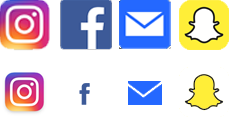
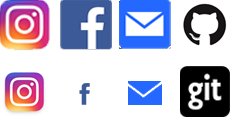
About Me
Completed About Me
Added Git Hub as a social media (instead of snapchat)

Changed region(s): [[0.7609, 0.5, 1.0, 0.9375], [0.7609, 0.0, 1.0, 0.4062]]

diff --git a/index.html b/index.html
@@ -8,6 +8,14 @@ License URL: http://creativecommons.org/licenses/by/3.0/
 <!DOCTYPE html>
 <html>
 <head>
+<style>
+    img.ficon{
+        width:56px;
+        height:60px;
+        display:inline-block;
+        background: url('images/yh.png') no-repeat 5px 4px #f9f9f9;
+    }
+</style>
 <title>Adam Abbas</title>
 <link rel="shortcut icon" href="images/favicon.ico.png" />
 <link href="css/bootstrap.css" rel='stylesheet' type='text/css'/>
@@ -80,16 +88,16 @@ Smartphone Compatible web template, free webdesigns for Nokia, Samsung, LG, Sony
 	  </div>
 </div>
 <div class="social-media">
-	 <a href="https://www.instagram.com/adam_abbaws/"><div class="behance social-grids">
+	 <a href="https://www.instagram.com/adam_abbaws/" target="_blank"  ><div class="behance social-grids">
 		 <i class="bh"></i>
 	 </div></a>
-	 <a href="https://www.facebook.com/adamabbaws"><div class="facebook social-grids">
+	 <a href="https://www.facebook.com/adamabbaws" target="_blank"><div class="facebook social-grids">
 		 <i class="fb"></i>
 	 </div></a>
-	 <a href="mailto:adamabbas26@gmail.com"><div class="pinterest social-grids">
+	 <a href="mailto:adamabbas26@gmail.com" target="_blank"><div class="pinterest social-grids">
 		 <i class="pin"></i>
 	 </div></a>
-	 <a href="images/snapcode.png"><div class="birbble social-grids">
+	 <a href="http://www.github.com/Watabaws" target="_blank"><div class="birbble social-grids">
 		 <i class="brib"></i>
 	 </div></a>
 	 <div class="clearfix"></div>
@@ -98,23 +106,21 @@ Smartphone Compatible web template, free webdesigns for Nokia, Samsung, LG, Sony
 <div id="about" class="about">
 	 <div class="container">
 		 <div class="about-head">
-			 <h3>About OPTION</h3>
-			 <p>Recognizing the need is the primary condition for design.</p>
-			 <h5>Charles Eames</h5>
+			 <h3>About Me</h3>
+			 <p>I am one of those people who just can't help getting a kick out of life - even when it's a kick in the teeth.</p>
+			 <h5>Polly Adler </h5>
 		 </div> 
-		 <div class="about-sec">
+         <br><br>
 			 <div class="col-md-6 about-info">
-				 <p class="about-sec-info"><span>OPTION</span>is originally an option of mine, other ideas that pop up, when creating my design for my personal portfolio. So instead of just keeping it inside my storage files why not share it? 
-				 I'm giving away this PSD template totally free. No need for appreciate but giving me one will be great! So enjoy! and sorry if there's something wrong in my PSD layers. 
-				 Thanks to Graphic Burger for the awesome set of icons and mockups. Also thanks to Unsplash for the great images.</p>
+				 <p class="about-sec-info">I was born and raised in Brooklyn, where I live today. It wasn't till the seventh grade that I was introduced to Computer Science, when my school introduced a new intiative to get middle schoolers into engineering. It started out with basic Python and Web Development, at which point I took it upon myself to learn more- and also introduce myself to Javascript. The following year, I was exposed to robotics, Scratch programming and circuitry- all of which I would grow to love and learn more about. My freshman year, I joined the robotics team- where I helped get us to the East Regional for the first time in our team's history. Sophomore year, I joined the Young Hackers; a group that aims to bring hackathons and programming to underprivelaged minorities. In addition, I co-founded Kinet-X- a STEM education company that aims to prepare the next generation to solve the problems ahead of them. For this project, I was selected as CE Week's Top 10 Under 20 Innovator' to look out for. <br><br> Here are some of my projects/acheivements.</p>
+                
 				 <div class="about-grid">
 					 <div class="about-icon">
 						 <i class="icon1"></i>
 					 </div>
 					 <div class="about-icon-info">
-						 <h4>Designed with Bootstrap 3.0 Grid</h4>
-						 <p>Proin sapien leo, venenatis facilisis tincidunt sit amet, vestibulum quis nibh. Pellentesque habitant morbi
-							tristique senectus et netus et malesuada fames ac turpis egestas. </p>
+						 <h4>Kinet-X</h4>
+						 <p>Started by me and two other sophomores, Kinet-X was born when we came to the realization that STEM was simply too hard to get into. School's around the country aren't certified to teach CS, and programs around the city are overpriced and lack the teaching methods to be effective. We set out to change that. Learn more at <a href="http://kinet-x.org" style="color:#ff9c00">kinet-x.org</a></p>
 					 </div>
 					 <div class="clearfix"></div>
 				 </div>
@@ -123,27 +129,37 @@ Smartphone Compatible web template, free webdesigns for Nokia, Samsung, LG, Sony
 						 <i class="icon2"></i>
 					 </div>
 					 <div class="about-icon-info">
-						 <h4>Easy to convert from PSD to HTML</h4>
-						 <p>Nullam mi est, bibendum sit amet diam eget, vulputate interdum erat. Etiam condimentum in ex id scelerisque.
-						 Nam porta, elit at luctus maximus, justo magna ornare purus.</p>
+						 <h4>Team 479 Stuy Fusion</h4>
+						 <p>One of Stuyvesant's FTC robotics teams, I'm proud to be the team's Head of Engineering. My responsibilities include designing the robot at the beginning of the year, when we find the game out, teaching new members the basics of engineering and helping build the robot during the season. Along with building and programming robots, the team also does a lot of community outreach, to spread STEM. Learn more at our website <a href="http://stuyfusion.github.io" style="color:#ff9c00">stuyfusion.github.io</a></p>
 					 </div>
-					 <div class="clearfix"></div>
-				 </div>
+                    <div class="clearfix"></div>
+                </div>
+                <div class="about-grid">
+                    <div class="about-icon">
+                        <img class="ficon">
+                    </div>
+                    <div class="about-icon-info">
+						 <h4>Young Hackers</h4>
+						 <p>The Young Hackers are a group of high school students across New York City that aim to bring STEM to minorities and those that might not have access to it. I joined in April of 2016, after attending their super amazing event Hip Hop Hacks, and have been a dedicated member ever since. I currently serve as their Head of Outreach as well as Website Manager. Find out more about the Young Hackers at <a href="http://younghackers.us" style="color:#ff9c00">younghackers.us</a></p>
+					 </div>
+                    <div class="clearfix"></div>
+                </div>
 			 </div>
 			 <div class="col-md-6 about-phones">
-				 <img src="images/phones.png" alt=""/>
+				 <img width=60% src="images/me.jpg" style="border-radius:15%" alt=""/>
+                 <img width=60% src="images/two.jpg" style="border-radius:15%;margin-top:25%;" alt=""/>
+                 <img width=60% src="images/yhsqua.JPG" style="border-radius:15%;margin-top:25%;" alt=""/>
 			 </div>
 			 <div class="clearfix"></div>
 		 </div>
 	 </div>
-</div>
 <!---->
 <div id="skills" class="skills">
 	 <div class="container">
 		 <div class="skills-head">
 			 <h3>SKILLS</h3>
-			 <p>Color does not add a pleasant quality to design - it reinforces it.</p>
-			 <h5>Pierre Bonnard</h5>
+			 <p>I am prepared for the worst, but hope for the best.</p>
+			 <h5>Benjamin Disraeli</h5>
 		 </div> 
 		 <div class="skill-grids">
 			 <div class="col-md-4 skill-grid">
@@ -349,40 +365,33 @@ Smartphone Compatible web template, free webdesigns for Nokia, Samsung, LG, Sony
 			 <p>To design is to communicate clearly by whatever means you can control or master.</p>
 			 <h5>Milton Glaser</h5>
 			 </div>
-			 <div class="contact-sec">
-				 <div class="col-md-4 contact-address">					
-					 <ul>
-					 <li><span class="navi"></span></li>
-					 <li>Angono, Rizal, Philippines 1930</li>	
-					 </ul>
-					 <ul>
-					 <li><span class="mail"></span></li>
-					 <li><a href="mailto:info@example.com">yorsaquing@gmail.com</a></li>
-					 </ul>
-					 <ul>
-					 <li><span class="mbil"></span></li>
-					 <li class="number">012.3456.789</li>
-					 </ul>
-					 <div class="clearfix"></div>
-					 </ul>				 
-				 </div>
-				 <div class="col-md-8 contact-form">
+			<!-- <div class="contact-sec" style="float:left;display:inline-block;">
+                 <div class="col-md-4 contact-address">
 					 <div class="contect-form-left">
-						 <form action='contact.php' method='post'>
-					     <input type="text" name="cf_name" placeholder="Name" required/>
-						 <input type="text" name="cf_email" placeholder="E-mail Address" required/>
-						 <input type="text" name="cf_number" placeholder="Contact Number" required/>
-					 </div>
-					 <div class="contect-form-right">
-						 <form>
-						 <textarea name="cf_message" placeholder="Message"></textarea>
-						 <input type="submit" value="Submit"/>
-						 </form>
+						 <h3>CONTACT</h3>
+			             <p>To design is to communicate clearly by whatever means you can control or master.</p>
+			             <h5>Milton Glaser</h5>
 					 </div>
 					 <div class="clearfix"></div>
 				 </div>
 				 <div class="clearfix"></div>
-			 </div>
+			 </div> -->
+				 <div class="col-md-8 contact-address">
+					 <ul>
+					 <li><span class="navi"></span></li>
+					 <li>Brooklyn, New York</li>	
+					 </ul>
+					 <ul>
+					 <li><span class="mail"></span></li>
+					 <li><a href="mailto:adamabbas362@gmail.com">adamabbas362@gmail.com</a></li>
+					 </ul>
+					 <ul>
+					 <li><span class="mbil"></span></li>
+					 <li class="number">917.543.2627</li>
+					 </ul>
+					 <div class="clearfix"></div>
+					 </ul>				 
+				 </div>
 		 </div>
 </div>
 <!---fotter-->
@@ -393,10 +402,10 @@ Smartphone Compatible web template, free webdesigns for Nokia, Samsung, LG, Sony
 		 </div>
 		 <p class="fotter-info">Copyrights &copy; 2016 Option All rights reserved | Template by <a href="http://w3layouts.com/">W3layouts</a></p>
 		 <div class="social-icons" style="margin-top:2%;margin-right:15%">
-			<a href="https://www.instagram.com/adam_abbaws/"><span class="beh"></span></a>
-			<a href="https://www.facebook.com/adamabbaws"><span class="face"></span></a>
-			<a href="mailto:adamabbas362@gmail.com"><span class="pin"></span></a>
-			<a href="images/snapcode.png"><span class="br"></span></a>				 
+			<a href="https://www.instagram.com/adam_abbaws/" target="_blank"><span class="beh"></span></a>
+			<a href="https://www.facebook.com/adamabbaws" target="_blank"><span class="face"></span></a>
+			<a href="mailto:adamabbas362@gmail.com" target="_blank"><span class="pin"></span></a>
+			<a href="http://www.github.com/Watabaws" target="_blank"><span class="br"></span></a>				 
 		 </div>
 		 <div class="clearfix"></div>
 	 </div>

diff --git a/css/style.css b/css/style.css
@@ -151,7 +151,7 @@ background:#2468ff;
 padding:3.7em 2em;
 }
 .birbble{
-background:#ffee38;
+background:#000000;
 padding:3.7em 2em;
 }
 i.bh{
@@ -185,7 +185,7 @@ background:#b6c9f4;
 	-ms-transition:0.5s all;
 }
 .birbble.social-grids:hover{
-background:#faf191;
+background:#6a6b6d;
 	transition:0.5s all;
 	-webkit-transition:0.5s all;
 	-moz-transition:0.5s all;
@@ -270,13 +270,13 @@ i.icon1{
 width:56px;
 height:60px;
 display:inline-block;
-background: url('../images/about.png') no-repeat 5px 4px #DF3F3F;
+background: url('../images/about.png') no-repeat 5px 4px #f9f9f9;
 }
 i.icon2{
 width:56px;
 height:60px;
 display:inline-block;
-background: url('../images/about.png') no-repeat -57px 4px #DF3F3F;
+background: url('../images/about.png') no-repeat -57px 4px #000000;
 }
 .about-phones{
 text-align:center;
@@ -1154,13 +1154,13 @@ font-size: 0.85em;
 i.icon1 {
 width: 43px;
 height: 41px;
-background: url('../images/about.png') no-repeat 6px 3px #DF3F3F;
+background: url('../images/about.png') no-repeat 6px 3px #f9f9f9;
 background-size: 189%;
 }
 i.icon2 {
 width: 43px;
 height: 41px;
-background: url('../images/about.png') no-repeat -36px 4px #DF3F3F;
+background: url('../images/about.png') no-repeat -36px 4px #000000;
 background-size: 189%;
 }
 .about-icon-info h4 {
